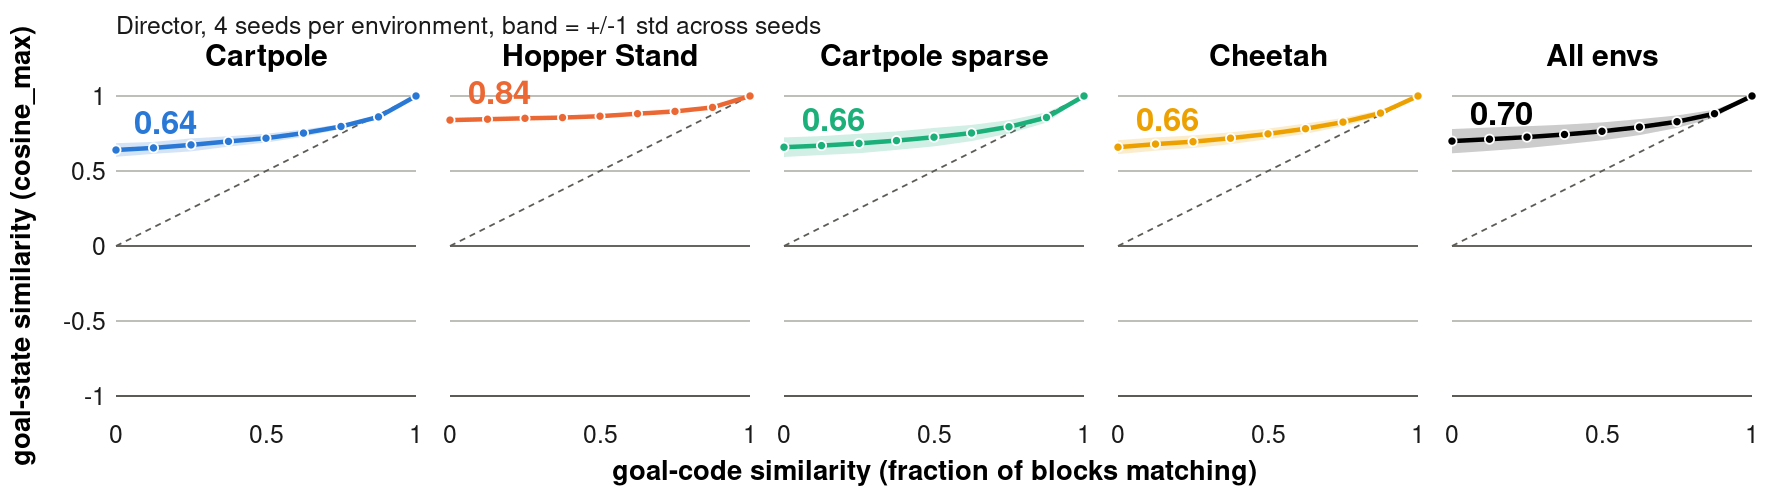
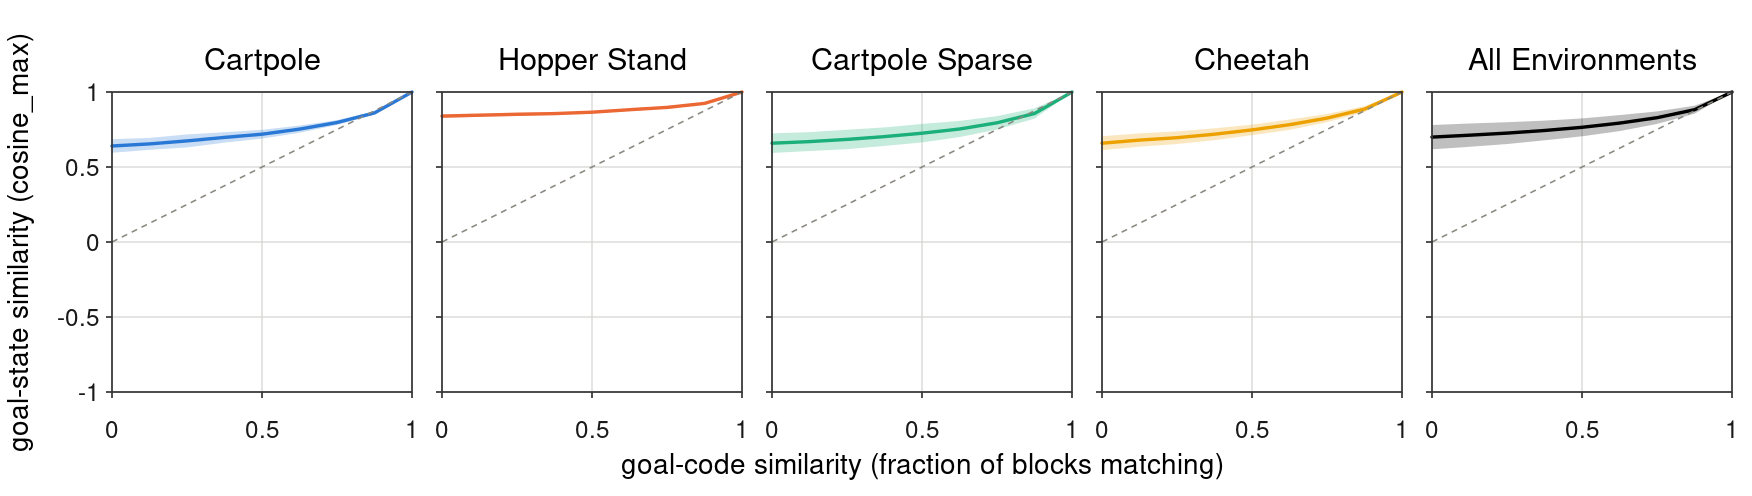
row layout: restyle after the DreamerV3/Director figures
Boxed axes frame, light gridlines on both axes, outward tick marks,
plain-weight titles, thinner lines with no markers, translucent band, panels
close together with shared axis labels. Drops the in-panel value annotations,
which that style does not use -- the gridlines at 0.5 and 1 carry the floor
well enough at this size and the exact numbers belong in the text.

Claude-Session: https://claude.ai/code/session_01UoFNqat22AbqJsV7sCUJhH

diff --git a/experiments/goal_geometry/plot_code_sim_to_state_sim.py b/experiments/goal_geometry/plot_code_sim_to_state_sim.py
@@ -212,44 +212,49 @@ def main():
 # --------------------------------------------------------------- row layout
 
 def build_row(data, sub):
-  """Five square panels in a row, spanning the text width.
+  """Five square panels in a row, styled after the DreamerV3/Director figures.
 
-  Each panel is ~1/5 of 397pt, so about 79pt printed. Every font is therefore
-  sized as a fraction of the SVG width and the whole thing is rendered at high
-  DPI: at this size a font chosen in absolute pixels is either invisible in
-  print or enormous on screen. Ticks are cut to 0/0.5/1 and the y axis is
-  labelled once, on the left panel -- there is no room for more and repeating
-  them would leave no space for the curve.
+  That style is: a boxed axes frame, light gridlines on both axes, outward
+  ticks, plain-weight titles, thin lines with no markers, and a translucent
+  band. Panels sit close together and the axis labels are shared.
+
+  Each panel prints at about a fifth of 397pt, so every font is a fraction of
+  the SVG width and the render is 600 dpi; an absolute font size at this scale
+  is either invisible in print or enormous on screen. Ticks are cut to 0/0.5/1
+  on x and labelled once on y, which is what fits.
   """
-  import math
   n_panels = len(TASKS) + 1
-  P = 300                      # panel side, SVG units
-  GAP = 34
-  PL, PR, PT, PB = 116, 24, 96, 108
+  P = 300
+  GAP = 30
+  PL, PR, PT, PB = 112, 20, 92, 104
   W = PL + n_panels * P + (n_panels - 1) * GAP + PR
   H = PT + P + PB
-  # print size: fonts are picked so final_pt = f * TARGET/W lands ~5-6.5pt
   TARGET = 0.98 * 397.0
+
   def f(pt_):
     return pt_ * W / TARGET
-  F_TITLE, F_TICK, F_AXIS, F_VAL = f(6.6), f(5.4), f(6.0), f(7.2)
 
-  o = [f'<svg xmlns="http://www.w3.org/2000/svg" width="{W}" height="{H}" '
-       f'viewBox="0 0 {W} {H}" font-family="Helvetica,Arial,sans-serif">',
-       f'<rect width="{W}" height="{H}" fill="white"/>']
+  F_TITLE, F_TICK, F_AXIS = f(6.8), f(5.4), f(6.2)
+  FRAME, GRIDC = '#333333', '#d5d5d2'
 
-  # Short labels: at ~79pt printed, a panel fits roughly 12 characters, and
+  # Short labels: a panel this wide fits about twelve characters, and
   # "Cartpole Swingup sparse" overran into its neighbour.
   SHORT = {'Cartpole Swingup': 'Cartpole', 'Hopper Stand': 'Hopper Stand',
-           'Cartpole Swingup sparse': 'Cartpole sparse', 'Cheetah Run': 'Cheetah'}
+           'Cartpole Swingup sparse': 'Cartpole Sparse', 'Cheetah Run': 'Cheetah'}
   present = [t for t, _, _ in TASKS if t in data]
   per_env = (np.stack([np.stack(data[t]).mean(0) for t in present])
              if present else None)
   panels = [(SHORT.get(lab, lab), col, np.stack(data[t]))
             for t, lab, col in TASKS if t in data]
   if per_env is not None and len(present) > 1:
-    panels.append(('All envs', INK, per_env))
+    panels.append(('All Environments', INK, per_env))
 
+  o = [f'<svg xmlns="http://www.w3.org/2000/svg" width="{W}" height="{H}" '
+       f'viewBox="0 0 {W} {H}" font-family="Helvetica,Arial,sans-serif">',
+       f'<rect width="{W}" height="{H}" fill="white"/>']
+
+  YT = (-1.0, -0.5, 0.0, 0.5, 1.0)
+  XT = (0.0, 0.5, 1.0)
   for k, (label, color, arr) in enumerate(panels):
     x0 = PL + k * (P + GAP)
     m, sd = arr.mean(0), arr.std(0)
@@ -258,67 +263,59 @@ def build_row(data, sub):
     def sx(i, x0=x0):
       return x0 + (1.0 - i / (nb - 1)) * P
 
-    # y spans the FULL cosine_max range [-1, 1], not just the positive half:
-    # the metric can reach -1 (exactly opposed vectors), and cropping at 0
-    # makes an 0.84 floor look far closer to the ceiling than it is.
     def sy(v):
+      # full cosine_max range: the metric reaches -1 for opposed vectors, and
+      # cropping at 0 makes an 0.84 floor look far closer to the ceiling
       return PT + (1.0 - v) / 2.0 * P
 
-    for v in (-1.0, -0.5, 0.0, 0.5, 1.0):
-      y = sy(v)
-      o.append(f'<line x1="{x0}" y1="{y:.1f}" x2="{x0 + P}" y2="{y:.1f}" '
-               f'stroke="{GRID}" stroke-width="1.6"/>')
-      if k == 0:
-        o.append(f'<text x="{x0 - 10}" y="{y + F_TICK * 0.36:.1f}" '
-                 f'font-size="{F_TICK:.1f}" fill="{INK_2}" '
-                 f'text-anchor="end">{v:g}</text>')
-    # zero line, the reference the sign of the metric turns on
-    o.append(f'<line x1="{x0}" y1="{sy(0):.1f}" x2="{x0 + P}" y2="{sy(0):.1f}" '
-             f'stroke="{BASELINE}" stroke-width="1.8"/>')
-    o.append(f'<line x1="{x0}" y1="{sy(-1):.1f}" x2="{x0 + P}" '
-             f'y2="{sy(-1):.1f}" stroke="{BASELINE}" stroke-width="2"/>')
-    # perfect alignment: goal similarity == code similarity, so it runs from
-    # (0, 0) to (1, 1) and starts at mid-height now that y reaches -1
-    o.append(f'<line x1="{sx(nb - 1):.1f}" y1="{sy(0):.1f}" '
-             f'x2="{sx(0):.1f}" y2="{sy(1):.1f}" stroke="{BASELINE}" '
-             f'stroke-width="1.8" stroke-dasharray="6,5"/>')
-    for v in (0.0, 0.5, 1.0):
-      i = (1.0 - v) * (nb - 1)
-      o.append(f'<text x="{sx(i):.1f}" y="{sy(-1) + F_TICK * 1.9:.1f}" '
-               f'font-size="{F_TICK:.1f}" fill="{INK_2}" '
-               f'text-anchor="middle">{v:g}</text>')
+    for v in YT:
+      o.append(f'<line x1="{x0}" y1="{sy(v):.1f}" x2="{x0 + P}" '
+               f'y2="{sy(v):.1f}" stroke="{GRIDC}" stroke-width="1.3"/>')
+    for v in XT:
+      gx = sx((1.0 - v) * (nb - 1))
+      o.append(f'<line x1="{gx:.1f}" y1="{PT}" x2="{gx:.1f}" '
+               f'y2="{PT + P}" stroke="{GRIDC}" stroke-width="1.3"/>')
 
     band = ([(sx(i), sy(min(m[i] + sd[i], 1.0))) for i in range(nb)] +
             [(sx(i), sy(max(m[i] - sd[i], -1.0))) for i in range(nb)][::-1])
-    o.append('<polygon points="%s" fill="%s" fill-opacity="0.20"/>' %
+    o.append('<polygon points="%s" fill="%s" fill-opacity="0.25"/>' %
              (' '.join(f'{x:.1f},{y:.1f}' for x, y in band), color))
-    pts = [(sx(i), sy(m[i])) for i in range(nb)]
-    o.append('<polyline points="%s" fill="none" stroke="%s" stroke-width="4.5" '
+    o.append('<polyline points="%s" fill="none" stroke="%s" stroke-width="3.4" '
              'stroke-linejoin="round" stroke-linecap="round"/>' %
-             (' '.join(f'{x:.1f},{y:.1f}' for x, y in pts), color))
-    for x, y in pts:
-      o.append(f'<circle cx="{x:.1f}" cy="{y:.1f}" r="4.6" fill="{color}" '
-               f'stroke="white" stroke-width="1.8"/>')
-    o.append(f'<text x="{x0 + P / 2:.1f}" y="{PT - 30:.1f}" '
-             f'font-size="{F_TITLE:.1f}" font-weight="bold" fill="{INK}" '
-             f'text-anchor="middle">{esc(label)}</text>')
-    # the floor, the one number worth reading off a panel this size
-    o.append(f'<text x="{x0 + P * 0.06:.1f}" y="{sy(m[-1]) - 16:.1f}" '
-             f'font-size="{F_VAL:.1f}" font-weight="bold" fill="{color}">'
-             f'{m[-1]:.2f}</text>')
+             (' '.join(f'{sx(i):.1f},{sy(m[i]):.1f}' for i in range(nb)), color))
+    # perfect alignment: goal similarity == code similarity, (0,0) to (1,1)
+    o.append(f'<line x1="{sx(nb - 1):.1f}" y1="{sy(0):.1f}" '
+             f'x2="{sx(0):.1f}" y2="{sy(1):.1f}" stroke="#8a8880" '
+             f'stroke-width="1.6" stroke-dasharray="6,5"/>')
 
-  o.append(f'<text x="{PL + (W - PL - PR) / 2:.1f}" y="{H - 24:.1f}" '
-           f'font-size="{F_AXIS:.1f}" font-weight="bold" fill="{INK}" '
-           f'text-anchor="middle">goal-code similarity '
-           f'(fraction of blocks matching)</text>')
+    o.append(f'<rect x="{x0}" y="{PT}" width="{P}" height="{P}" fill="none" '
+             f'stroke="{FRAME}" stroke-width="1.7"/>')
+    for v in YT:
+      o.append(f'<line x1="{x0 - 6}" y1="{sy(v):.1f}" x2="{x0}" '
+               f'y2="{sy(v):.1f}" stroke="{FRAME}" stroke-width="1.7"/>')
+      if k == 0:
+        o.append(f'<text x="{x0 - 12}" y="{sy(v) + F_TICK * 0.36:.1f}" '
+                 f'font-size="{F_TICK:.1f}" fill="{INK_2}" '
+                 f'text-anchor="end">{v:g}</text>')
+    for v in XT:
+      gx = sx((1.0 - v) * (nb - 1))
+      o.append(f'<line x1="{gx:.1f}" y1="{PT + P}" x2="{gx:.1f}" '
+               f'y2="{PT + P + 6}" stroke="{FRAME}" stroke-width="1.7"/>')
+      o.append(f'<text x="{gx:.1f}" y="{PT + P + F_TICK * 1.9:.1f}" '
+               f'font-size="{F_TICK:.1f}" fill="{INK_2}" '
+               f'text-anchor="middle">{v:g}</text>')
+    o.append(f'<text x="{x0 + P / 2:.1f}" y="{PT - 22:.1f}" '
+             f'font-size="{F_TITLE:.1f}" fill="{INK}" '
+             f'text-anchor="middle">{esc(label)}</text>')
+
+  o.append(f'<text x="{PL + (W - PL - PR) / 2:.1f}" y="{H - 22:.1f}" '
+           f'font-size="{F_AXIS:.1f}" fill="{INK}" text-anchor="middle">'
+           f'goal-code similarity (fraction of blocks matching)</text>')
   cy = PT + P / 2
-  o.append(f'<text x="{F_AXIS * 1.1:.1f}" y="{cy:.1f}" '
-           f'font-size="{F_AXIS:.1f}" font-weight="bold" fill="{INK}" '
-           f'text-anchor="middle" '
-           f'transform="rotate(-90 {F_AXIS * 1.1:.1f} {cy:.1f})">'
+  o.append(f'<text x="{F_AXIS * 1.0:.1f}" y="{cy:.1f}" '
+           f'font-size="{F_AXIS:.1f}" fill="{INK}" text-anchor="middle" '
+           f'transform="rotate(-90 {F_AXIS * 1.0:.1f} {cy:.1f})">'
            f'goal-state similarity (cosine_max)</text>')
-  o.append(f'<text x="{PL}" y="{PT - 62:.1f}" font-size="{F_TICK:.1f}" '
-           f'fill="{INK_2}">{esc(sub)}</text>')
   o.append('</svg>')
   return '\n'.join(o), W, H
 
